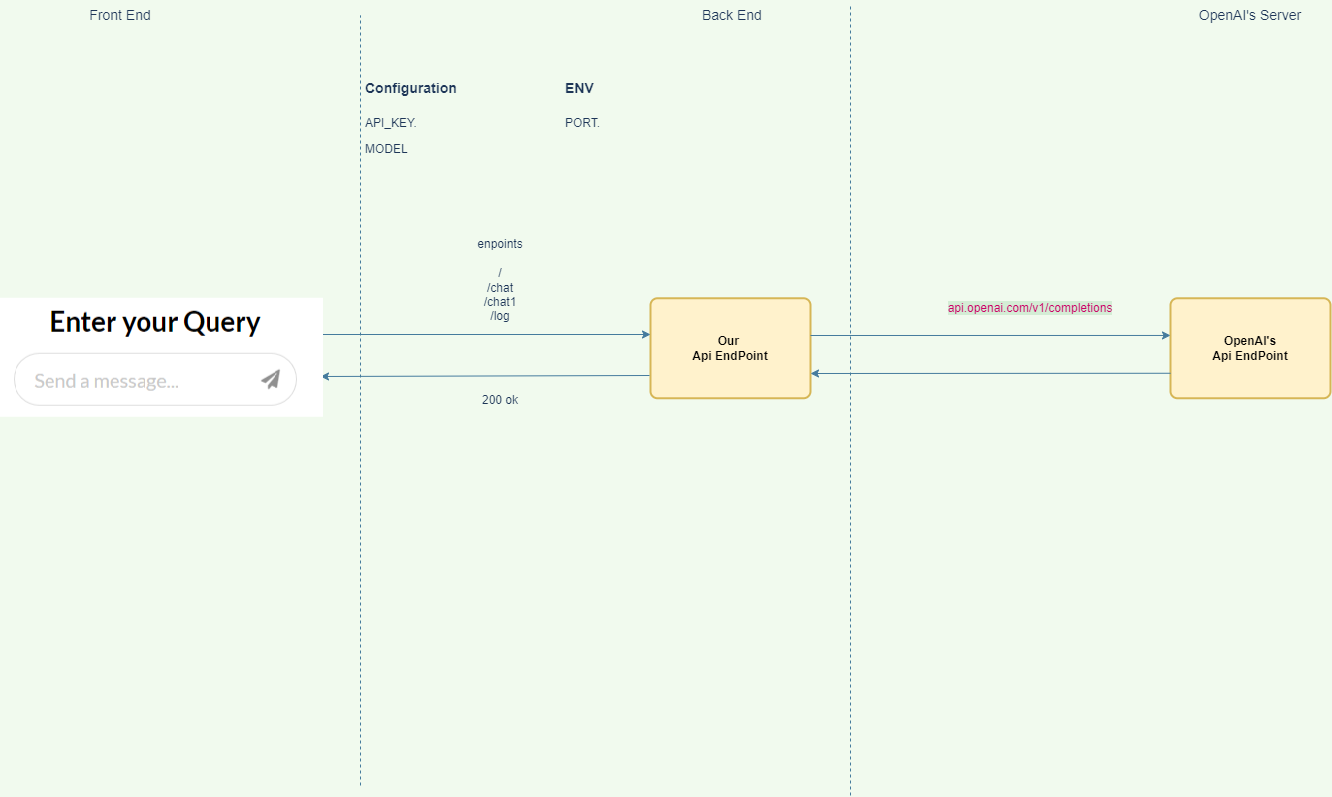
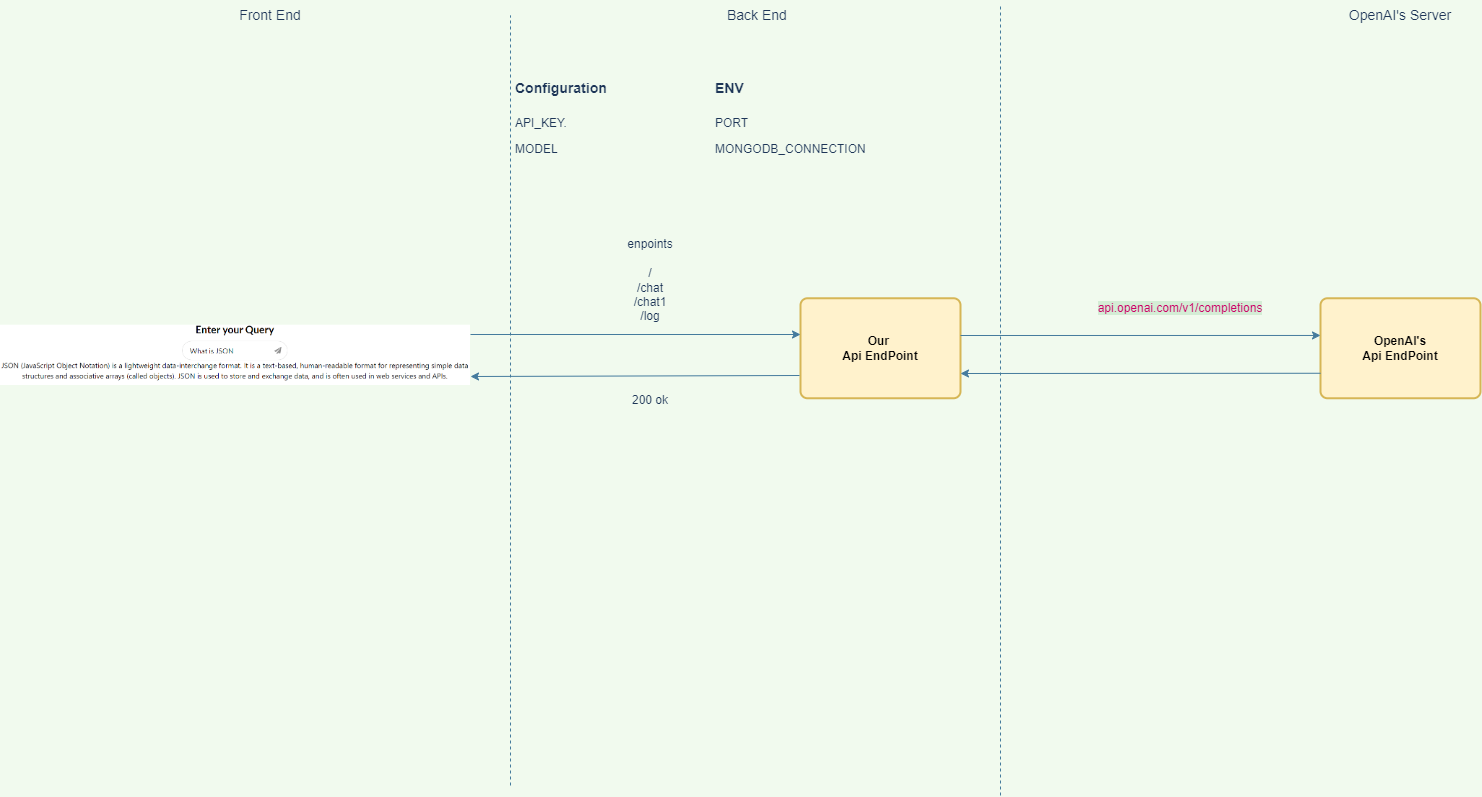
Modified the UI

diff --git a/ChatGPT_App/Frontend/src/App.js b/ChatGPT_App/Frontend/src/App.js
@@ -22,7 +22,7 @@ const App = () => {
     .then((res) => {
       // Update the response state with the server's response
       setResponse(res.data)
-      setPrompt('')
+      // setPrompt('')
     })
     .catch((err) => {
       console.error(err)
@@ -45,7 +45,7 @@ const App = () => {
   //   </>
    
   // )
-
+  
 
   return (
     <>   
@@ -56,7 +56,7 @@ const App = () => {
             <i className="paper plane link icon" onClick={handleSubmit}></i>
           </div>  
       </div>
-      <p>{response}</p>
+      <p style={{alignItems: 'center'}}>{response}</p>
     </>    
   );
 }

diff --git a/ChatGPT_App/Backend/server.js b/ChatGPT_App/Backend/server.js
@@ -8,7 +8,7 @@ const { Configuration, OpenAIApi } = require("openai");
 const { MongoClient } = require('mongodb');
 
 
-const dbConStr = process.env.MONGODB_CONNECTION;
+const dbConStr = process.env.MONGODB_CONNECTION || 'mongodb://127.0.0.1:27017';
 const dbClient = new MongoClient(dbConStr);
 
 const openai_api_Key = config.get('OPENAI_api_key');
